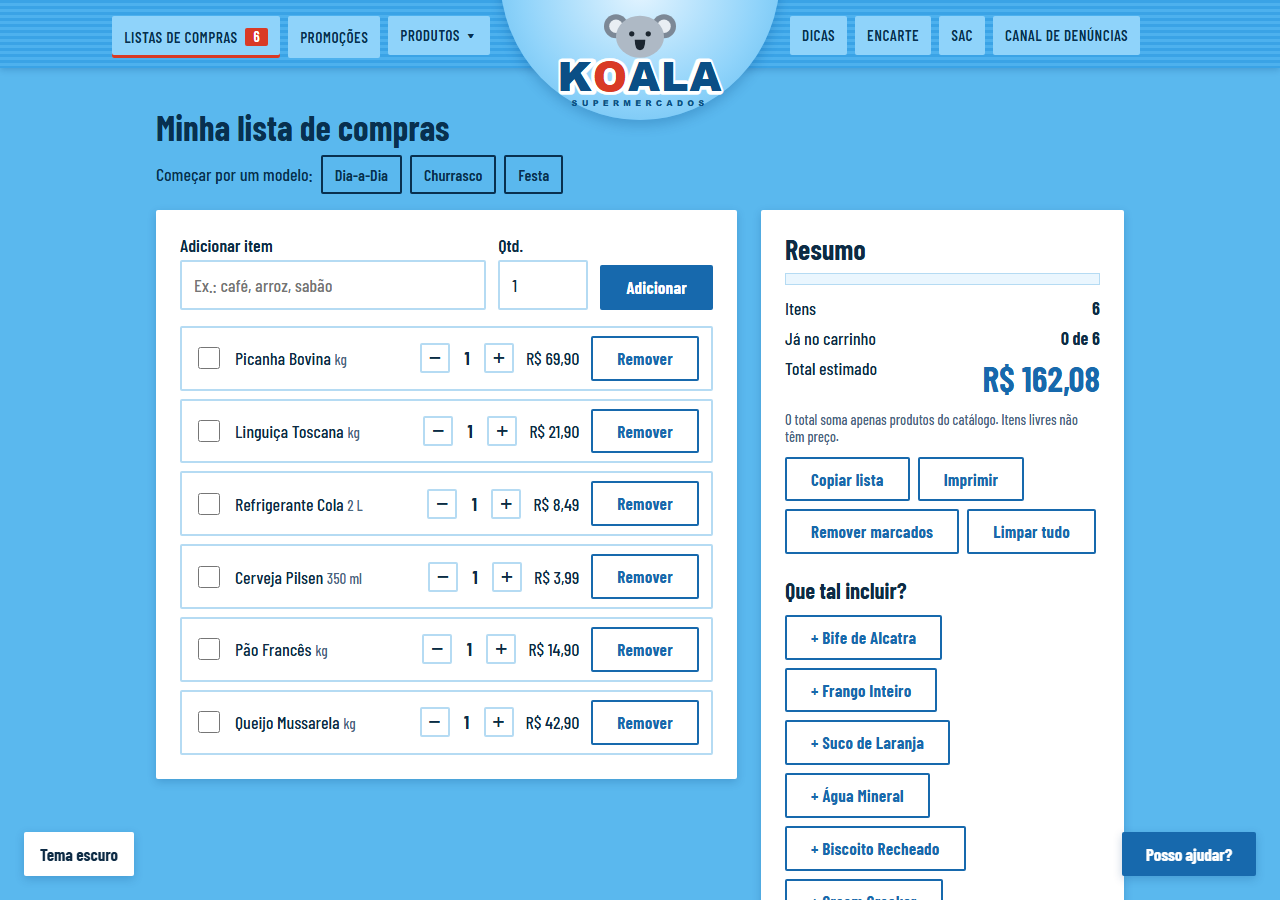
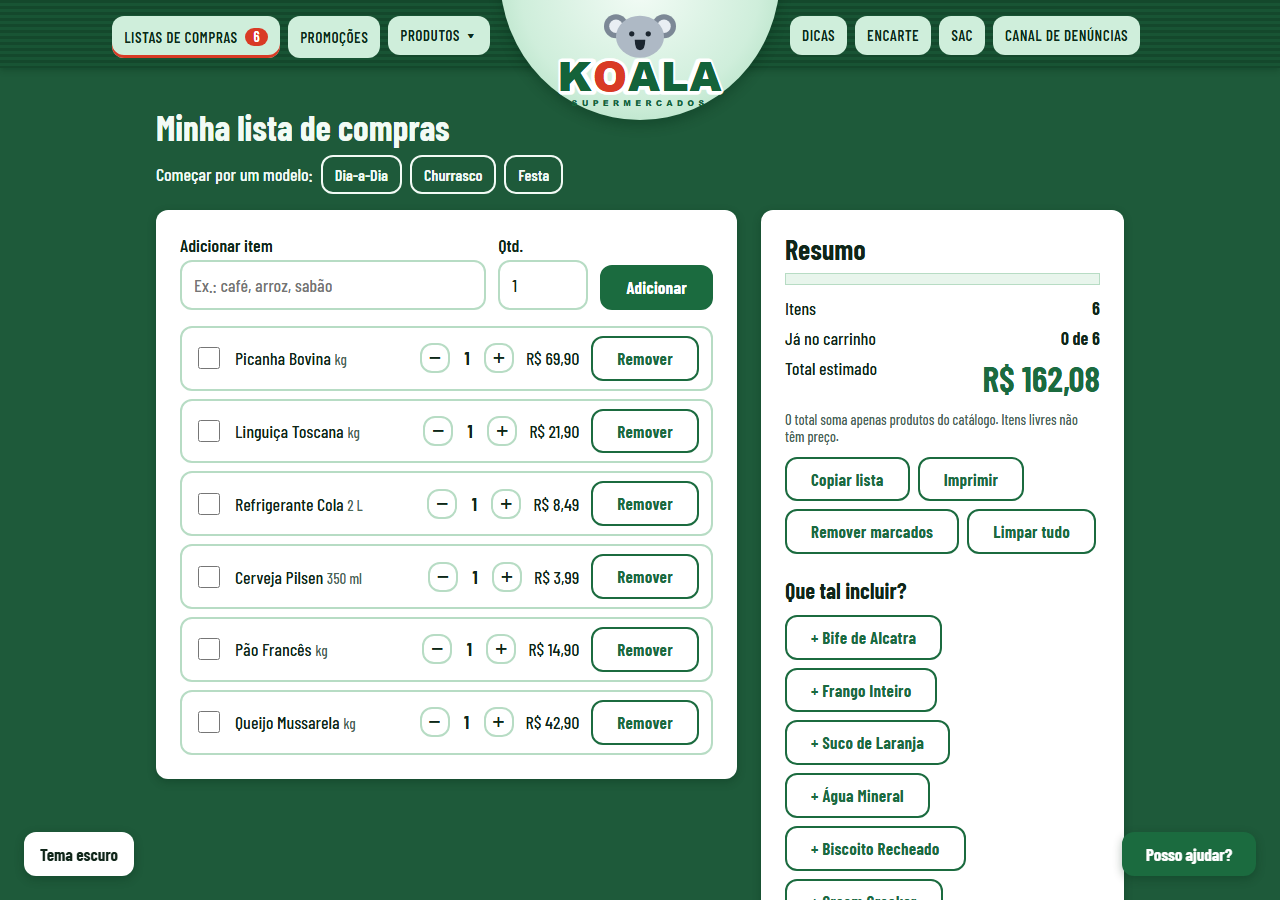
loja-koala: carrossel, bordas arredondadas e tema verde escuro

diff --git a/loja-koala/index.html b/loja-koala/index.html
@@ -15,6 +15,27 @@
 
 <main id="main">
   <div class="container">
+    <section class="carrossel" aria-roledescription="carrossel" aria-label="Destaques da Koala">
+      <div class="carrossel__faixa">
+      <div class="carrossel__slide" role="group" aria-roledescription="slide" aria-label="1 de 4">
+        <img src="img/fotos/loja.jpg" alt="Corredor de um supermercado com prateleiras abastecidas">
+        <div class="carrossel__texto"><h2>Tudo pra você, todos os dias</h2><p>Hortifrúti, açougue, padaria e mais de mil produtos para a sua lista.</p><a class="botao" href="promocoes.html">Ver promoções</a></div>
+      </div>
+      <div class="carrossel__slide" role="group" aria-roledescription="slide" aria-label="2 de 4">
+        <img src="img/fotos/acougue.jpg" alt="Cortes de carne frescos no balcão" loading="lazy">
+        <div class="carrossel__texto"><h2>Açougue com cortes frescos</h2><p>Carnes selecionadas para o churrasco e para o dia a dia.</p><a class="botao" href="produtos.html?cat=acougue">Ver o açougue</a></div>
+      </div>
+      <div class="carrossel__slide" role="group" aria-roledescription="slide" aria-label="3 de 4">
+        <img src="img/fotos/bebidas.jpg" alt="Variedade de bebidas" loading="lazy">
+        <div class="carrossel__texto"><h2>Bebidas para toda ocasião</h2><p>Sucos, refrigerantes e muito mais, sempre geladinhos.</p><a class="botao" href="produtos.html?cat=bebidas">Ver bebidas</a></div>
+      </div>
+      <div class="carrossel__slide" role="group" aria-roledescription="slide" aria-label="4 de 4">
+        <img src="img/fotos/matinais.jpg" alt="Itens para o café da manhã" loading="lazy">
+        <div class="carrossel__texto"><h2>Café da manhã completo</h2><p>Pães, cereais e matinais para começar bem o dia.</p><a class="botao" href="produtos.html?cat=matinais">Ver matinais</a></div>
+      </div>
+      </div>
+    </section>
+
     <h1 class="sobre-fundo">Nossos produtos</h1>
     <div class="grade" id="cats"></div>
 
@@ -73,6 +94,38 @@
     b[0].textContent = pad(Math.floor(s / 3600)); b[1].textContent = pad(Math.floor(s % 3600 / 60)); b[2].textContent = pad(s % 60);
   }
   tick(); setInterval(tick, 1000);
+
+  // carrossel de destaques: troca sozinho (5 s), setas, bolinhas, teclado e toque
+  (() => {
+    const raiz = $(".carrossel"), faixa = $(".carrossel__faixa"), slides = [...document.querySelectorAll(".carrossel__slide")];
+    let atual = 0, timer = null;
+    const reduzir = matchMedia("(prefers-reduced-motion: reduce)").matches;
+    const botao = (cls, rotulo, txt) => { const b = document.createElement("button"); b.type = "button"; b.className = cls; b.setAttribute("aria-label", rotulo); b.textContent = txt; return b; };
+    const ant = botao("carrossel__seta carrossel__seta--ant", "Slide anterior", "‹");
+    const prox = botao("carrossel__seta carrossel__seta--prox", "Próximo slide", "›");
+    const pontos = document.createElement("div"); pontos.className = "carrossel__pontos";
+    const bolas = slides.map((_, i) => { const b = botao("", `Ir para o slide ${i + 1}`, ""); b.addEventListener("click", () => { ir(i); reiniciar(); }); pontos.appendChild(b); return b; });
+    raiz.append(ant, pontos, prox);
+    function ir(i) {
+      atual = (i + slides.length) % slides.length;
+      faixa.style.transform = `translateX(-${atual * 100}%)`;
+      slides.forEach((s, n) => { s.setAttribute("aria-hidden", n !== atual); s.querySelectorAll("a").forEach(a => { a.tabIndex = n === atual ? 0 : -1; }); });
+      bolas.forEach((b, n) => b.setAttribute("aria-current", n === atual));
+    }
+    const parar = () => { clearInterval(timer); timer = null; };
+    const iniciar = () => { if (!reduzir && !timer) timer = setInterval(() => ir(atual + 1), 5000); };
+    const reiniciar = () => { parar(); iniciar(); };
+    ant.addEventListener("click", () => { ir(atual - 1); reiniciar(); });
+    prox.addEventListener("click", () => { ir(atual + 1); reiniciar(); });
+    raiz.addEventListener("mouseenter", parar); raiz.addEventListener("mouseleave", iniciar);
+    raiz.addEventListener("focusin", parar); raiz.addEventListener("focusout", iniciar);
+    raiz.tabIndex = 0;
+    raiz.addEventListener("keydown", e => { if (e.key === "ArrowLeft") { ir(atual - 1); reiniciar(); } if (e.key === "ArrowRight") { ir(atual + 1); reiniciar(); } });
+    let x0 = null;
+    raiz.addEventListener("touchstart", e => { x0 = e.touches[0].clientX; }, { passive: true });
+    raiz.addEventListener("touchend", e => { if (x0 === null) return; const dx = e.changedTouches[0].clientX - x0; if (Math.abs(dx) > 40) { ir(atual + (dx < 0 ? 1 : -1)); reiniciar(); } x0 = null; });
+    ir(0); iniciar();
+  })();
 
   $("#news").addEventListener("submit", e => {
     e.preventDefault();

diff --git a/loja-koala/tokens.css b/loja-koala/tokens.css
@@ -2,31 +2,31 @@
    Nenhum outro arquivo CSS ou HTML pode ter cor hexadecimal. */
 :root, [data-tema="claro"] {
   /* cores */
-  --cor-fundo: #5ab8ee;
-  --cor-texto: #0d2b45;
-  --cor-texto-fundo: #08304f;
-  --cor-primaria: #1769ad;
-  --cor-primaria-hover: #0f568f;
+  --cor-fundo: #1e5a3a;
+  --cor-texto: #10261a;
+  --cor-texto-fundo: #f2fbf5;
+  --cor-primaria: #1b6b3f;
+  --cor-primaria-hover: #135230;
   --cor-sobre-primaria: #ffffff;
   --cor-acento: #d93a25;
   --cor-sobre-acento: #ffffff;
   --cor-superficie: #ffffff;
-  --cor-superficie-2: #eaf6fe;
-  --cor-mudo: #4a667f;
-  --cor-borda: #b5dbf3;
-  --cor-card: #1f86d2;
-  --cor-card-hover: #1773bb;
+  --cor-superficie-2: #e8f5ec;
+  --cor-mudo: #4a6657;
+  --cor-borda: #b7dcc4;
+  --cor-card: #277a4b;
+  --cor-card-hover: #1f6439;
   --cor-sobre-card: #ffffff;
-  --cor-cabecalho: #3aa3e6;
-  --cor-cabecalho-listra: #4db1ee;
-  --cor-nav: #8fd3fa;
-  --cor-nav-hover: #b9e6ff;
-  --cor-nav-texto: #08304f;
-  --cor-logo-1: #e3f4ff;
-  --cor-logo-2: #8fd3fa;
-  --cor-logo-3: #5ab8ee;
-  --cor-rodape: #1b73b3;
-  --cor-rodape-base: #0f5489;
+  --cor-cabecalho: #14482c;
+  --cor-cabecalho-listra: #185434;
+  --cor-nav: #cfeedb;
+  --cor-nav-hover: #e6f8ed;
+  --cor-nav-texto: #0d2b1b;
+  --cor-logo-1: #f2fbf5;
+  --cor-logo-2: #cfeedb;
+  --cor-logo-3: #9fd8b5;
+  --cor-rodape: #14482c;
+  --cor-rodape-base: #0c3320;
   --cor-rodape-texto: #ffffff;
   --cor-rodape-destaque: #ffd54a;
   --cor-preto: #111111;
@@ -37,8 +37,8 @@
   --cor-sucesso-fundo: #e6f5e9;
   --cor-desab-fundo: #d5dde4;
   --cor-desab-texto: #66727e;
-  --cor-toast: #0d2b45;
-  --cor-sombra: rgba(0, 60, 120, .22);
+  --cor-toast: #10261a;
+  --cor-sombra: rgba(0, 40, 20, .3);
 
   /* espaços (escala 4px) */
   --espaco-1: 4px;
@@ -49,8 +49,8 @@
   --espaco-10: 40px;
   --espaco-16: 64px;
 
-  /* raio: quase reto, identidade do mercado (não arredondado de template) */
-  --raio: 2px;
+  /* raio: bordas arredondadas em botões, cards, campos e carrossel */
+  --raio: 12px;
 
   /* tipografia: escala 1.25 */
   --fonte-familia: "Barlow Condensed", "Arial Narrow", Arial, sans-serif;
@@ -63,35 +63,35 @@
 }
 
 [data-tema="escuro"] {
-  --cor-fundo: #0b1f33;
-  --cor-texto: #e8f4ff;
-  --cor-texto-fundo: #e8f4ff;
-  --cor-primaria: #5fb6f0;
-  --cor-primaria-hover: #8ccbf6;
-  --cor-sobre-primaria: #06233a;
+  --cor-fundo: #0c1f15;
+  --cor-texto: #e8f6ee;
+  --cor-texto-fundo: #e8f6ee;
+  --cor-primaria: #6fd49b;
+  --cor-primaria-hover: #93e2b5;
+  --cor-sobre-primaria: #06231a;
   --cor-acento: #ff6a52;
   --cor-sobre-acento: #1a0a07;
-  --cor-superficie: #12304a;
-  --cor-superficie-2: #0f2740;
-  --cor-mudo: #9bb7cf;
-  --cor-borda: #25506f;
-  --cor-card: #1668a8;
-  --cor-card-hover: #1b7bc4;
-  --cor-cabecalho: #0f3a5f;
-  --cor-cabecalho-listra: #124670;
-  --cor-nav: #1c5584;
-  --cor-nav-hover: #26679e;
-  --cor-nav-texto: #e8f4ff;
-  --cor-logo-1: #2a6a9c;
-  --cor-logo-2: #194e78;
-  --cor-logo-3: #0f3a5f;
-  --cor-rodape: #0f3a5f;
-  --cor-rodape-base: #0a2a46;
+  --cor-superficie: #14301f;
+  --cor-superficie-2: #102719;
+  --cor-mudo: #9dbbaa;
+  --cor-borda: #28523a;
+  --cor-card: #1c6b42;
+  --cor-card-hover: #238150;
+  --cor-cabecalho: #0f3322;
+  --cor-cabecalho-listra: #134029;
+  --cor-nav: #1d5a3a;
+  --cor-nav-hover: #277049;
+  --cor-nav-texto: #e8f6ee;
+  --cor-logo-1: #2a7a52;
+  --cor-logo-2: #1b5a3a;
+  --cor-logo-3: #0f3322;
+  --cor-rodape: #0f3322;
+  --cor-rodape-base: #0a2518;
   --cor-erro: #ff8a80;
   --cor-erro-fundo: #3a1a1a;
   --cor-sucesso: #7fd48d;
   --cor-sucesso-fundo: #153322;
-  --cor-desab-fundo: #25384a;
-  --cor-desab-texto: #7d92a5;
+  --cor-desab-fundo: #223a2c;
+  --cor-desab-texto: #7d9a89;
   --cor-sombra: rgba(0, 0, 0, .5);
 }

diff --git a/loja-koala/css/estilos.css b/loja-koala/css/estilos.css
@@ -80,6 +80,21 @@ main { flex: 1; padding: var(--espaco-10) 0 var(--espaco-16); }
 .grade-produtos { display: grid; grid-template-columns: repeat(auto-fill, minmax(210px, 1fr)); gap: var(--espaco-4); }
 .painel { background: var(--cor-superficie); color: var(--cor-texto); border-radius: var(--raio); box-shadow: 0 3px 8px var(--cor-sombra); padding: var(--espaco-6); }
 
+/* carrossel de destaques */
+.carrossel { position: relative; margin-bottom: var(--espaco-10); border-radius: var(--raio); overflow: hidden; box-shadow: 0 3px 8px var(--cor-sombra); background: var(--cor-rodape); }
+.carrossel__faixa { display: flex; transition: transform .6s ease; }
+.carrossel__slide { position: relative; flex: 0 0 100%; }
+.carrossel__slide img { width: 100%; height: 260px; object-fit: cover; }
+.carrossel__texto { padding: var(--espaco-4) var(--espaco-10) var(--espaco-6); background: var(--cor-rodape); color: var(--cor-rodape-texto); }
+.carrossel__texto .botao { margin-top: var(--espaco-2); }
+.carrossel__seta { position: absolute; top: 108px; z-index: 2; width: 44px; height: 44px; display: grid; place-items: center; border: 0; border-radius: var(--raio); background: var(--cor-superficie); color: var(--cor-texto); font: 700 var(--fonte-lg)/1 var(--fonte-familia); cursor: pointer; box-shadow: 0 3px 8px var(--cor-sombra); }
+.carrossel__seta:hover { background: var(--cor-superficie-2); }
+.carrossel__seta--ant { left: var(--espaco-3); }
+.carrossel__seta--prox { right: var(--espaco-3); }
+.carrossel__pontos { position: absolute; right: var(--espaco-4); bottom: var(--espaco-4); display: flex; gap: var(--espaco-2); }
+.carrossel__pontos button { width: 14px; height: 14px; padding: 0; border: 2px solid var(--cor-rodape-texto); border-radius: var(--raio); background: transparent; cursor: pointer; }
+.carrossel__pontos button[aria-current="true"] { background: var(--cor-rodape-texto); }
+
 /* seções */
 section { margin-bottom: var(--espaco-10); }
 .secao-topo { display: flex; justify-content: space-between; align-items: end; gap: var(--espaco-3); flex-wrap: wrap; margin-bottom: var(--espaco-4); color: var(--cor-texto-fundo); }
@@ -190,6 +205,9 @@ section { margin-bottom: var(--espaco-10); }
   h1 { font-size: var(--fonte-lg); }
 }
 @media (max-width: 480px) {
+  .carrossel__slide img { height: 220px; }
+  .carrossel__texto { padding: var(--espaco-4); }
+  .carrossel__seta { top: 70px; }
   .grade, .dicas, .grade__larga, .rodape__cols { grid-template-columns: 1fr; }
   .grade__larga { grid-column: auto; }
   .form-add { grid-template-columns: 1fr 80px; }

diff --git a/loja-koala/README.md b/loja-koala/README.md
@@ -2,7 +2,7 @@
 
 Trabalho de front-end: um site de supermercado fictício chamado **Koala**, feito com HTML, CSS e JavaScript puro, sem nenhuma biblioteca.
 
-Usei como referência o site do Supermercados Guanabara (só o **layout**: a barra do topo, a grade de categorias, a lista de compras e o rodapé). A marca, o logo e as fotos são da Koala. As cores ficaram mais claras, em azul-céu.
+Usei como referência o site do Supermercados Guanabara (só o **layout**: a barra do topo, a grade de categorias, a lista de compras e o rodapé). A marca, o logo e as fotos são da Koala. A cor principal é o **verde escuro** (cor de mercado, passa confiança e frescor), com tema claro e escuro.
 
 Repositório: https://github.com/veronisky/Koala-mercado-Javascript (este site fica na pasta `loja-koala/`)
 
@@ -25,6 +25,13 @@ Não precisa instalar nada.
 2. Entre na pasta `loja-koala/` e abra o arquivo `index.html` no navegador, com dois cliques.
 
 ---
+
+## Ajustes da última revisão
+
+- **Carrossel de destaques** na página inicial: 4 slides com foto real, troca automática a cada 5 s, setas, bolinhas, teclado (← →) e toque no celular. Pausa quando o mouse ou o foco está em cima e respeita `prefers-reduced-motion`.
+- **Bordas arredondadas:** o raio passou de 2 px (quase reto) para **12 px** em `tokens.css` (`--raio`). Como botões, cards, campos, menu, etiquetas e carrossel usam `var(--raio)`, tudo que era quadrado ficou arredondado de uma vez.
+- **Cor mais vendedora:** do azul-céu para **verde escuro** (sugestão recebida). Mudou só em `tokens.css` (claro e escuro) e nos SVGs do logo e do app. Os preços continuam em verde, as ofertas em vermelho e o foco do teclado em amarelo.
+- **Publicação** na Vercel (projeto `koala-supermercados`).
 
 ## Prints
 

diff --git a/README.md b/README.md
@@ -17,8 +17,8 @@ Site institucional desenvolvido como projeto escolar para a disciplina de **Dese
 
 ## 🛒 SITE NOVO — Loja Koala (prints)
 
-Fizemos um site novo em formato de **loja virtual**, na pasta [loja-koala/](loja-koala/), inspirado no layout do Supermercados Guanabara, com a marca Koala em azul claro.
-Ele tem lista de compras funcional, tema claro e escuro, página de catálogo de componentes (`tokens.css` e `AGENTS.md`) e **fotos reais**.
+Fizemos um site novo em formato de **loja virtual**, na pasta [loja-koala/](loja-koala/), inspirado no layout do Supermercados Guanabara, com a marca Koala em **verde escuro**, bordas arredondadas e carrossel de destaques na página inicial.
+Ele tem carrossel, lista de compras funcional, tema claro e escuro, página de catálogo de componentes (`tokens.css` e `AGENTS.md`) e **fotos reais**.
 Explicação completa: [loja-koala/README.md](loja-koala/README.md).
 
 **Como abrir:** baixe o projeto e abra `loja-koala/index.html` no navegador. Endereço hospedado (quando o GitHub Pages estiver ativo): https://veronisky.github.io/Koala-mercado-Javascript/loja-koala/

diff --git a/loja-koala/AGENTS.md b/loja-koala/AGENTS.md
@@ -16,7 +16,7 @@
 
 ## Marca e geometria
 - A marca é **Koala** (com K). Logo em `img/logo.svg`.
-- Geometria própria: raio quase reto (2px), escala de espaço 4px, escala tipográfica 1.25.
+- Geometria própria: bordas arredondadas (raio 12px), escala de espaço 4px, escala tipográfica 1.25.
 - Tema claro e escuro: trocar só variáveis em `tokens.css` (`[data-tema="escuro"]`).
 
 ## Estrutura
